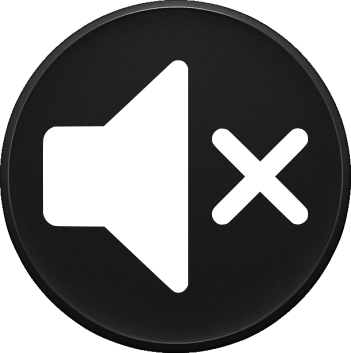
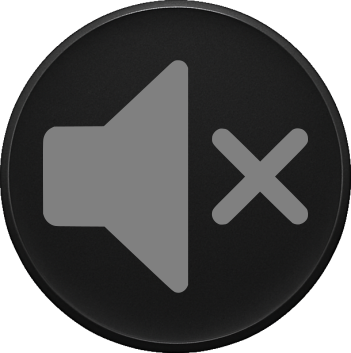
safety

Changed region(s): [[0.114, 0.1558, 0.5413, 0.8414], [0.5983, 0.3428, 0.8832, 0.6544]]

diff --git a/src/volume-ui.js b/src/volume-ui.js
@@ -35,17 +35,26 @@ export function installVolumeUI(footer) {
   range.dataset.helpLabel = 'Adjust volume';
   range.dataset.helpPosition = 'bottom';
 
+  const updateRangeFill = () => {
+    const min = range.min ? parseFloat(range.min) : 0;
+    const max = range.max ? parseFloat(range.max) : 100;
+    const val = range.value ? parseFloat(range.value) : 0;
+    const pct = (max > min) ? ((val - min) / (max - min)) : 0;
+    range.style.setProperty('--vol-fill-pct', `${Math.max(0, Math.min(1, pct)) * 100}%`);
+  };
+
   const muteBtn = document.createElement('button');
   muteBtn.type = 'button';
-  muteBtn.className = 'toy-btn';
+  muteBtn.className = 'c-btn toy-mute-btn';
   muteBtn.title = 'Mute';
-  muteBtn.textContent = 'Mute';
+  muteBtn.innerHTML = `<div class="c-btn-outer"></div><div class="c-btn-glow"></div><div class="c-btn-core"></div>`;
   muteBtn.style.flex = '0 0 auto';
   muteBtn.style.whiteSpace = 'nowrap';
+  muteBtn.style.setProperty('--c-btn-size', '42px');
 
   volWrap.append(range, muteBtn);
 
-  muteBtn.dataset.helpLabel = 'Mute';
+  muteBtn.dataset.helpLabel = 'Toggle mute';
   muteBtn.dataset.helpPosition = 'bottom';
 
   // --- 2. Initialize State ---
@@ -54,8 +63,18 @@ export function installVolumeUI(footer) {
   // We'll default to 80% if muted, otherwise use the current value.
   const initialVolume = getToyVolume(toyId);
   range.value = String(initialVolume * 100);
-  muteBtn.setAttribute('aria-pressed', String(initialMuted));
-  muteBtn.textContent = initialMuted ? 'Unmute' : 'Mute';
+  const setMuteVisualState = (muted) => {
+    muteBtn.setAttribute('aria-pressed', String(muted));
+    const title = muted ? 'Unmute' : 'Mute';
+    muteBtn.title = title;
+    muteBtn.setAttribute('aria-label', title);
+    const core = muteBtn.querySelector('.c-btn-core');
+    if (core) {
+      const iconUrl = muted ? "../assets/UI/T_Mute.png" : "../assets/UI/T_Unmute.png";
+      core.style.setProperty('--c-btn-icon-url', `url('${iconUrl}')`);
+    }
+  };
+  setMuteVisualState(initialMuted);
   
   // Store a sensible default pre-mute value if the toy starts as muted.
   if (initialMuted) {
@@ -66,31 +85,35 @@ export function installVolumeUI(footer) {
   range.addEventListener('input', () => {
     const newVolPercent = parseInt(range.value, 10);
     setToyVolume(toyId, newVolPercent / 100);
+    updateRangeFill();
     
     // If user slides volume up, automatically unmute.
     if (newVolPercent > 0 && isToyMuted(toyId)) {
       setToyMuted(toyId, false);
-      muteBtn.setAttribute('aria-pressed', 'false');
-      muteBtn.textContent = 'Mute';
+      setMuteVisualState(false);
     }
   });
 
   muteBtn.addEventListener('click', () => {
     const shouldMute = !isToyMuted(toyId);
     setToyMuted(toyId, shouldMute);
-    muteBtn.setAttribute('aria-pressed', String(shouldMute));
-    muteBtn.textContent = shouldMute ? 'Unmute' : 'Mute';
+    setMuteVisualState(shouldMute);
 
     if (shouldMute) {
       // Before muting, save the current slider value.
       range.dataset.preMute = range.value;
       range.value = '0';
+      updateRangeFill();
     } else {
       // On unmute, restore the saved value.
       range.value = range.dataset.preMute || '80';
       setToyVolume(toyId, parseInt(range.value, 10) / 100);
+      updateRangeFill();
     }
   });
+
+  // Sync fill once on creation so the bar matches the initial value.
+  updateRangeFill();
 
   // --- 4. Return the gain node ---
   refreshHelpOverlay();

diff --git a/style.css b/style.css
@@ -559,40 +559,89 @@ select.toy-instrument {
 
 /* Volume control in footer */
 .toy-volwrap {
+  --vol-bar-accent: #0141a9; /* mid blue, solid */
+  --vol-bar-track-start: #111827; /* dark grey track */
+  --vol-bar-track-end: #111827;
+
   display: flex;
   gap: 10px;
   align-items: center;
-  background: rgba(13, 20, 29, 0.85);
+  background: #0b0f16; /* solid dark grey */
   border: 1px solid #1c2430;
   border-radius: 8px;
   padding: 8px 10px;
 }
-.toy-volwrap .toy-btn {
-  min-width: 44px;
+
+.toy-volwrap .toy-mute-btn {
+  --c-btn-size: 42px;
+  flex: 0 0 auto;
 }
+
 .toy-volwrap input[type="range"] {
-  appearance: auto;
-  -webkit-appearance: slider-horizontal;
+  -webkit-appearance: none !important;
+  appearance: none !important;
   width: 100%;
-  height: 18px;
+  height: 20px;
+  background: transparent;
   outline: none;
   flex: 1;
+
+  /* JS (initToyVolumeSliders) keeps this updated 0–100% */
+  --vol-fill-pct: 0%;
 }
+
+/* Track: left side filled to the knob, right side dark grey */
+.toy-volwrap input[type="range"]::-webkit-slider-runnable-track {
+  height: 8px;
+  border-radius: 999px;
+  border: none;
+  box-shadow: none;
+  background: linear-gradient(
+    to right,
+    var(--vol-bar-accent) 0,
+    var(--vol-bar-accent) var(--vol-fill-pct, 0%),
+    #1a1a1d               var(--vol-fill-pct, 0%),
+    #1a1a1d               100%
+  );
+}
+
+.toy-volwrap input[type="range"]::-moz-range-track {
+  height: 8px;
+  border-radius: 999px;
+  border: none;
+  box-shadow: none;
+  background: linear-gradient(
+    to right,
+    var(--vol-bar-accent) 0,
+    var(--vol-bar-accent) var(--vol-fill-pct, 0%),
+    #1a1a1d               var(--vol-fill-pct, 0%),
+    #1a1a1d               100%
+  );
+}
+
+/* Knob: simple opaque circle */
 .toy-volwrap input[type="range"]::-webkit-slider-thumb {
-  -webkit-appearance: none;
-  width: 16px;
-  height: 16px;
-  border-radius: 2px;
-  background: #f4932f;
-  border: 1px solid #0d141d;
-  margin-top: -6px;
+  -webkit-appearance: none !important;
+  width: 18px;
+  height: 18px;
+  background: var(--vol-bar-accent); /* match bar fill */
+  border-radius: 999px;              /* circle */
+  border: none;
+  margin-top: -5px;                  /* center on 8px track */
+  box-shadow: none;
 }
+
 .toy-volwrap input[type="range"]::-moz-range-thumb {
-  width: 16px;
-  height: 16px;
-  border-radius: 2px;
-  background: #f4932f;
-  border: 1px solid #0d141d;
+  width: 18px;
+  height: 18px;
+  background: var(--vol-bar-accent);
+  border-radius: 999px;
+  border: none;
+  box-shadow: none;
+}
+
+.toy-volwrap input[type="range"]:focus {
+  outline: none;
 }
 
 /* Theme select dropdown in topbar */

diff --git a/src/main.js b/src/main.js
@@ -1889,6 +1889,31 @@ function scheduler(){
   updateChains();
   requestAnimationFrame(step);
 }
+
+// --- Volume slider fill helper ---
+function initToyVolumeSliders() {
+  const sliders = document.querySelectorAll('.toy-volwrap input[type="range"]');
+  sliders.forEach((slider) => {
+    const updateFill = () => {
+      const min = slider.min ? parseFloat(slider.min) : 0;
+      const max = slider.max ? parseFloat(slider.max) : 100;
+      const val = slider.value ? parseFloat(slider.value) : 0;
+      const pct = (max > min) ? ((val - min) / (max - min)) : 0;
+      slider.style.setProperty('--vol-fill-pct', `${Math.max(0, Math.min(1, pct)) * 100}%`);
+    };
+    slider.removeEventListener('input', slider.__volFillHandler || (() => {}));
+    slider.__volFillHandler = updateFill;
+    slider.addEventListener('input', updateFill);
+    updateFill();
+  });
+}
+
+if (document.readyState === 'loading') {
+  document.addEventListener('DOMContentLoaded', initToyVolumeSliders);
+} else {
+  initToyVolumeSliders();
+}
+
 async function boot(){
   const board = document.getElementById('board');
   if (board) {
